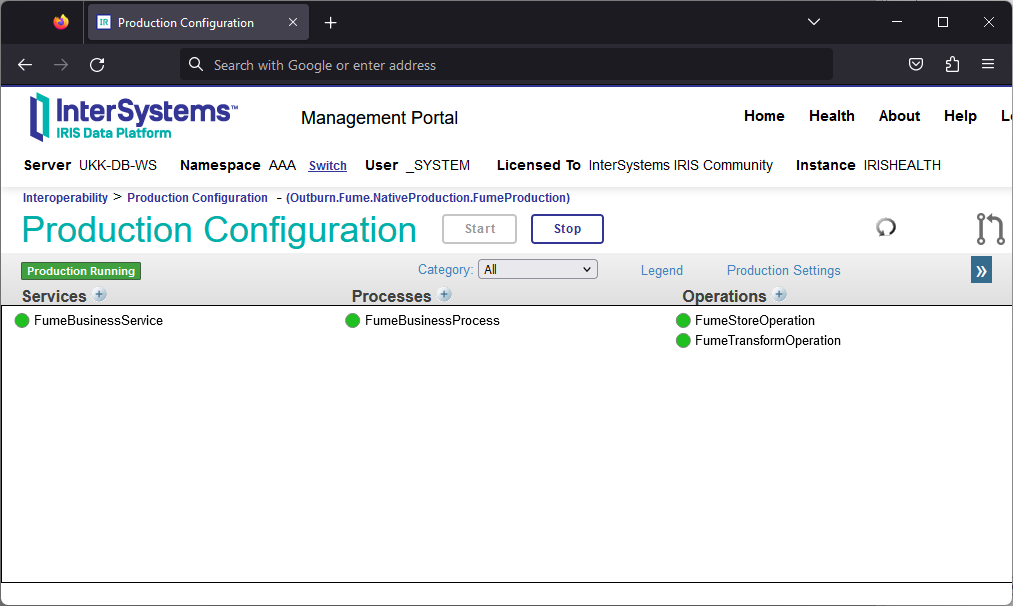
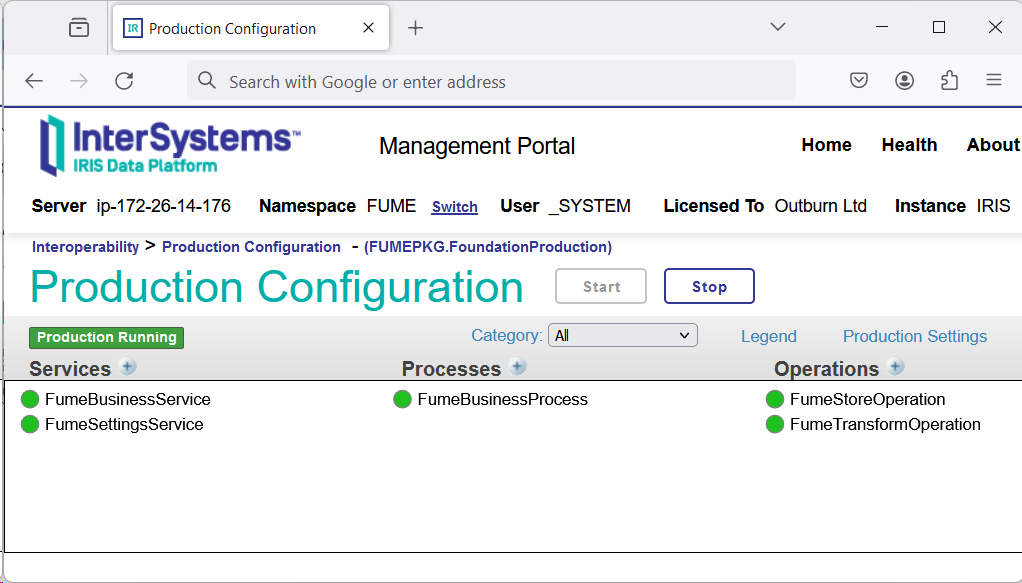
Small imporvements

diff --git a/configuration.md b/configuration.md
@@ -1,40 +1,31 @@
 ## Configuring InterSystems IRIS and HealthShare Health Connect FUME plugin
 
-- [Configuring FUME plugin](#configuring-iris-fume-plugin)
-  - [Production settings](#production-settings)
+- [Configuring InterSystems IRIS and HealthShare Health Connect FUME plugin](#configuring-intersystems-iris-and-healthshare-health-connect-fume-plugin)
+  - [FumeSettingsService component](#fumesettingsservice-component)
   - [FumeBusinessService component](#fumebusinessservice-component)
   - [FUME plugin REST service](#fume-plugin-rest-service)
   - [FumeTransformOperation component](#fumetransformoperation-component)
   - [FumeStoreOperation component](#fumestoreoperation-component)
-  - [Development and customization of Production business processes using FUME Plugin components](#development-and-customization-of-production-business-processes-using-FUME-plugin-components)
+  - [Development and customization of Production business processes using FUME plugin components](#development-and-customization-of-production-business-processes-using-fume-plugin-components)
   - [Applying FUME mappings to incoming data streams](#applying-fume-mappings-to-incoming-data-streams)
 - [Configuring local IRIS FHIR server security](#configuring-local-iris-fhir-server-security)
 
 
-### Production settings
+### FumeSettingsService component
 
-The production contains the following properties:
+The component contains the following properties which are used by other FUME production components: 
 
 |Property | Description |
 |---------|-------------|
 | FUMEEndpoint|Specifies the URL of the FUME server. If you used the FUME plugin installer to set up the package, that property's value should already be set.
 | FUMEDesignerUrl|Specifies the URL of the FUME designer (valid for FUME enterprise versions only)|
-
-
-To change the production value, do the following:
-* Open your production
-* Click the `Production settings` link
-* Find and modify the property value as follows:
-![Alt text](img/production-settings.png)
-* Click the `Apply` button to save changes
-
-Other essential production components are `FumeBusinessService`, `FumeTransformOperation` and `FumeStoreOperation`, which are included in the FUME plugin distribution. 
+ 
 
 ### FumeBusinessService component
 
 This component is responsible for receiving and processing incoming data in HL7v2, CSV, and JSON formats. 
 
-The component works as an HTTP service and can receive multiple requests simultaneously.  
+The component works as an HTTP service and can receive multiple requests simultaneously. If you want to stop this component serve HTTP request, set its `Pool Size` value to 0. 
 
 The component handles HTTP requests in which the Content-Type header contains one of the following values:
 
@@ -65,12 +56,6 @@ If the client passes a stream with an unknown or unsupported data type, the inco
 
 If the message is successfully accepted, it will be written to the Production message log and then the message will be passed to the next Production component for processing. 
 
-In addition, the component exposes the following properties:
-
-|Property | Description |
-|---------|-------------|
-|Charset|Specifies the character encoding of incoming text streams. The default value is `UTF-8`. Normally, this setting value should never be changed.|
-
 The `FumeHL7Request`, `FumeCSVRequest`, and `FumeJSONRequest` message classes are used to transfer messages in HL7v2, CSV and JSON formats within Production boundaries.
 
 
@@ -78,12 +63,13 @@ The `FumeHL7Request`, `FumeCSVRequest`, and `FumeJSONRequest` message classes ar
 
 The FUME plugin defines a new Web Application that exposes the following REST endpoints:
 
-- /csp/healthshare/{namespace}/fume/rest/json/{fumeMap?}
-- /csp/healthshare/{namespace}/fume/rest/csv/{fumeMap?}
-- /csp/healthshare/{namespace}/fume/rest/hl7/{fumeMap?}
+- `/csp/healthshare/:namespace/fume/rest/json/:fumeMap?`
+- `/csp/healthshare/:namespace/fume/rest/csv/:fumeMap?`
+- `/csp/healthshare/:namespace/fume/rest/hl7/:fumeMap?`
 
-* The {namespace} variable corresponds to your current namespace in IRIS for Health (e.g. "clinic1" etc)
-* The {fumeMap} variable specifies the FUME mapping identifier, which should be used to transform data. *This is an optional parameter. If used, all other FUME Conversion map-related settings will be ignored* (Please refer to [Applying FUME mapping to incoming data streams](#applying-fume-mappings-to-incoming-data-streams) section for extended information about FUME mapping assignment rules)
+The `:namespace` required URL path variable corresponds to your current namespace in IRIS for Health (e.g. "clinic1" etc)
+
+The `:fumeMap?` path variable specifies the FUME mapping identifier, which should be used to transform data. *This is an optional parameter. If used, all other FUME Conversion map-related settings will be ignored* (Please refer to [Applying FUME mapping to incoming data streams](#applying-fume-mappings-to-incoming-data-streams) section for extended information about FUME mapping assignment rules)
 
 **Important Note:**  
 By default, REST is secured by Basic Authentication. Please use your IRIS credential with appropriate permissions to access exposed REST services. 

diff --git a/installation.md b/installation.md
@@ -20,7 +20,7 @@ If ZPM is not installed on your server yet, install it according to the instruct
 > Installation / Upgrade procedure:
 1.	Open InterSystems IRIS for Health terminal
 2.	Authenticate yourself using your credentials
-3. switch the namespace to the target one where FUME Plugin will be installed
+3. Switch the namespace to the target one where FUME Plugin will be installed
 ```shell
 %SYS> zn "FUME"
 FUME>
@@ -29,7 +29,7 @@ FUME>
 ```shell
 FUME> zpm
 ```
-5. On the next step, you have to switch ZPM to use the package registry: (in the following example, Outburn private registry is used. Yours will vary. To get credentials for the Outburn private registry, please send the request to **info@outburn.co.il**)
+5. On the next step, you have to switch ZPM to use the package registry. In the following example, Outburn private registry is used. Yours will vary. To get credentials for the Outburn private registry, please send the request to **info@outburn.co.il**:
    
 ```shell
 zpm:FUME> repo -r -n registry -url http://ec2-3-124-79-139.eu-central-1.compute.amazonaws.com:52773/registry/ -user **** -pass ****
@@ -43,17 +43,17 @@ zpm:FUME> install -dev iris-fume-plugin
 
 > Installer Options
 1. Confirm or change the active namespace used for a Plugin installation.
-2. The installer will propose the new FHIR repository creation and configuration. Please confirm if required.
-3. The installer will propose a default endpoint. Please confirm or change. 
-4. Proivde FUME REST endpoint URL.
-5. Proivde FUME Designer URL.
-6. The installer will propose a default port for FumeBusinessService HTTP Adapter. Please confirm or change.
+2. If a running Production found, the installer will ask your confirmation to add new components to existing Production. Otherwise a new Production will be created.
+3. The installer will propose the new FHIR repository creation and configuration. Please confirm if required.
+4. The installer will propose a default endpoint. Please confirm or change. 
+5. Proivde FUME REST endpoint URL.
+6. Proivde FUME Designer URL.
 
 Installation Completed! 
 
 > Post-installation steps
 
-1. Check if a production with the name `Outburn.FumeNativeProduction.FumeProduction` exists. You should see the following:
+1. Check if IRIS FUME plugin components were added to your active production. You should see the following:
 
 ![Alt text](img/production.png)
  
